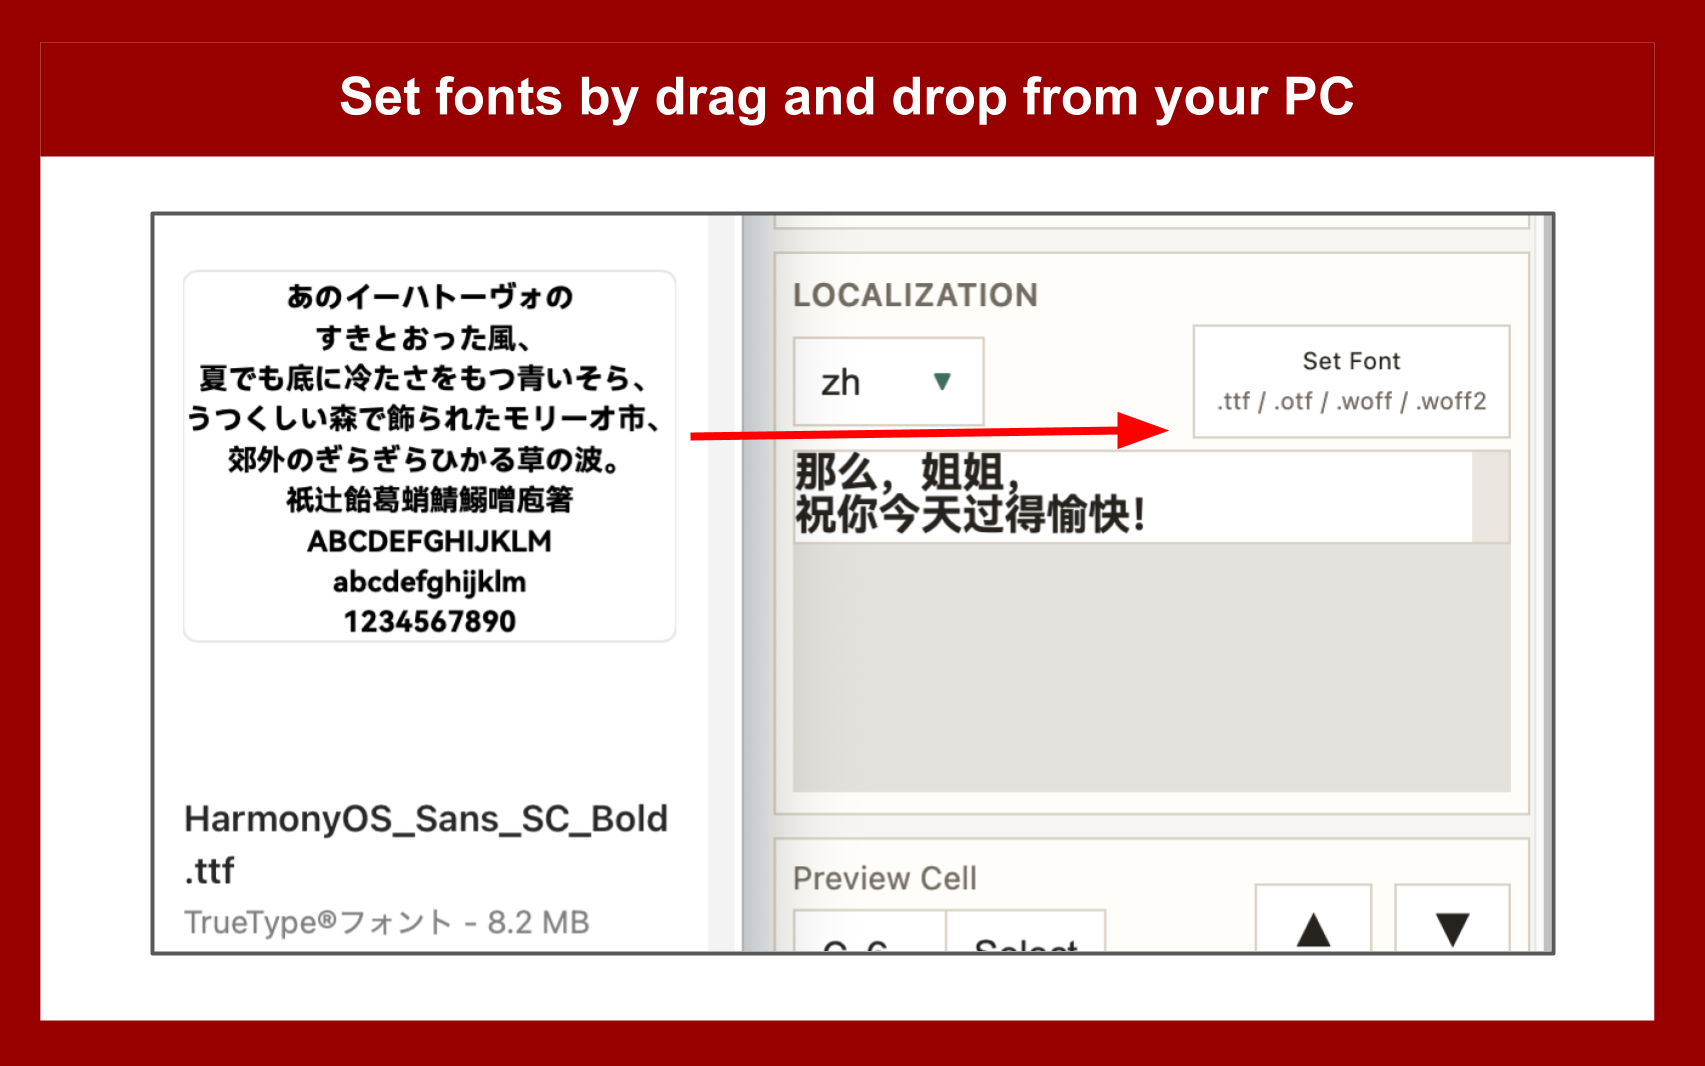
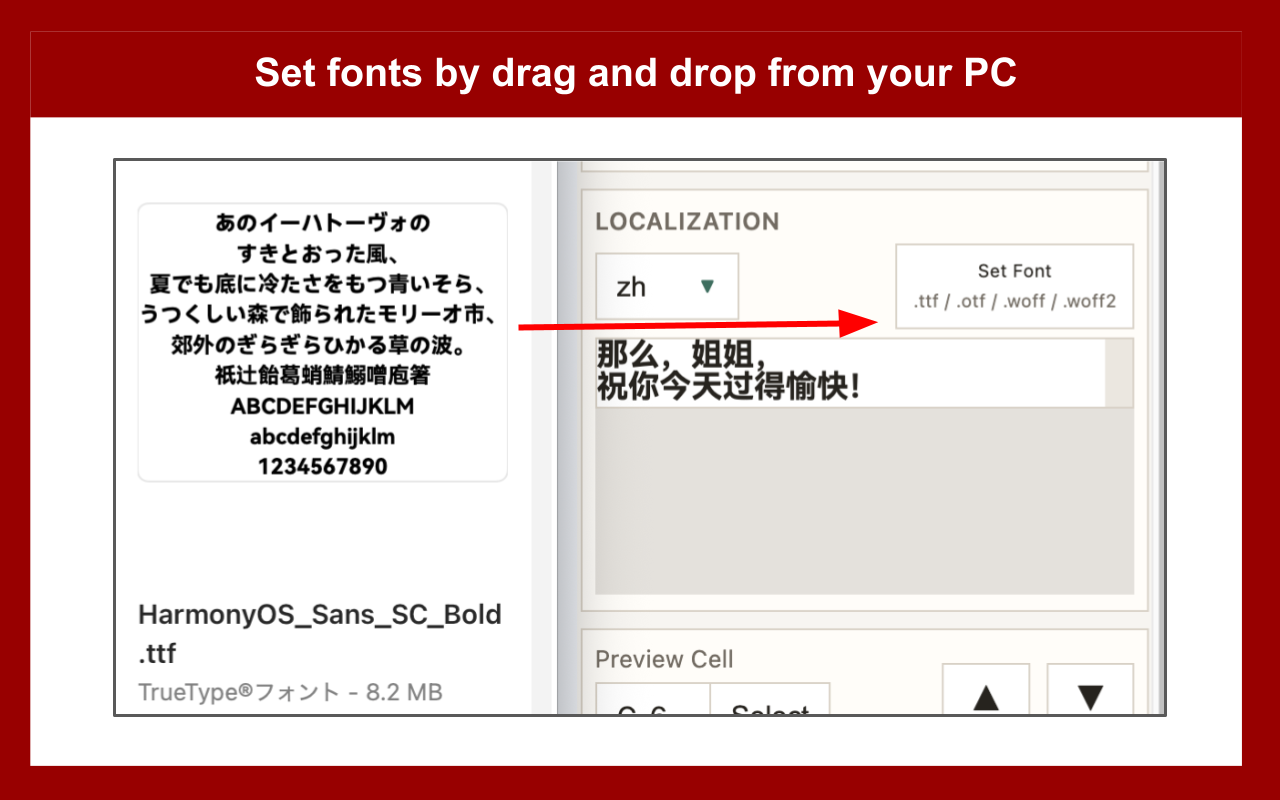
Update screenshots to marketplace size

Changed region(s): [[0.0938, 0.875, 0.9062, 0.9062]]

diff --git a/docs/marketplace-assets/README.md b/docs/marketplace-assets/README.md
@@ -11,16 +11,11 @@ This folder contains draft assets for a future Google Workspace Marketplace list
 
 ## Screenshot candidates
 
-The README images in `docs/images/` are useful product screenshots, but Marketplace screenshots should be exported in an accepted Marketplace size before submission.
+The README images in `docs/images/` are also Marketplace screenshot candidates.
 
-Recommended submission target:
+Current screenshot size:
 
 - `1280x800`
-
-Other accepted sizes may include:
-
-- `640x400`
-- `2560x1600`
 
 ## Notes
 
